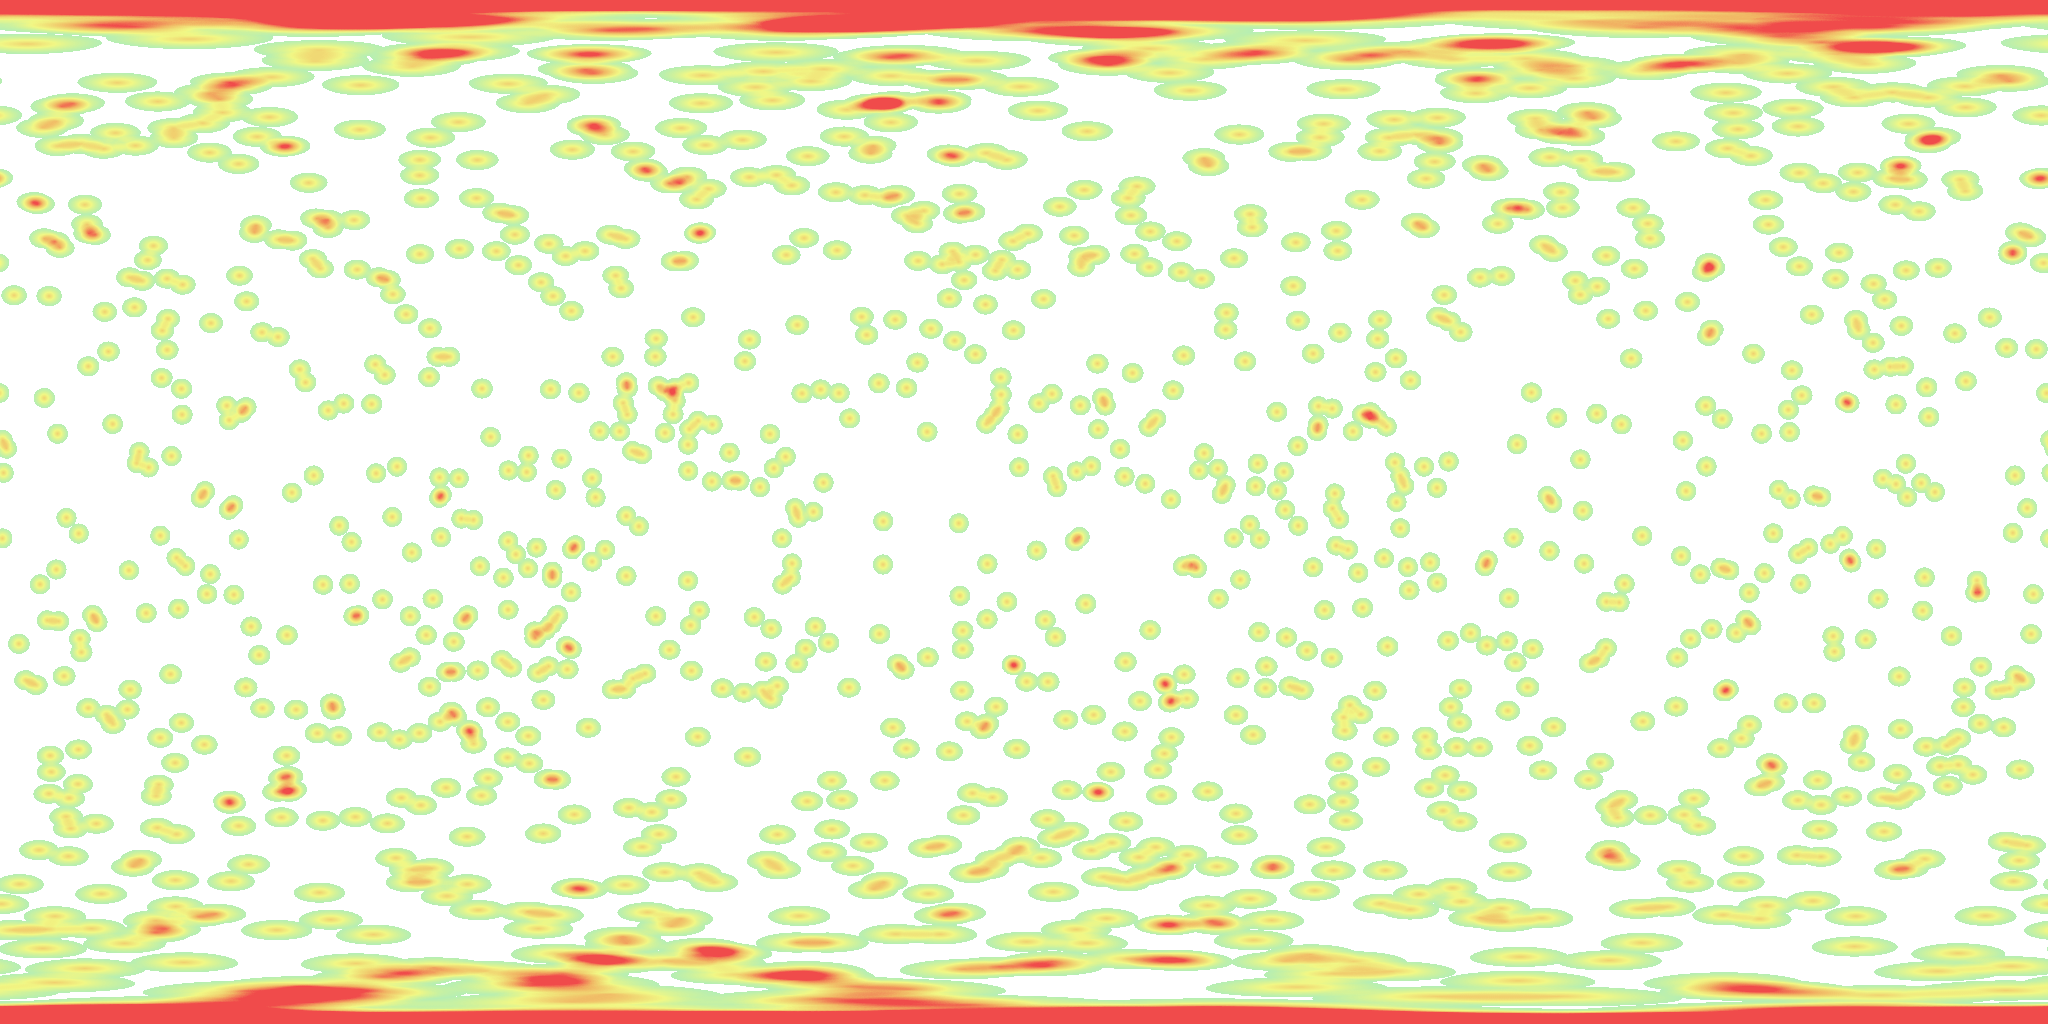
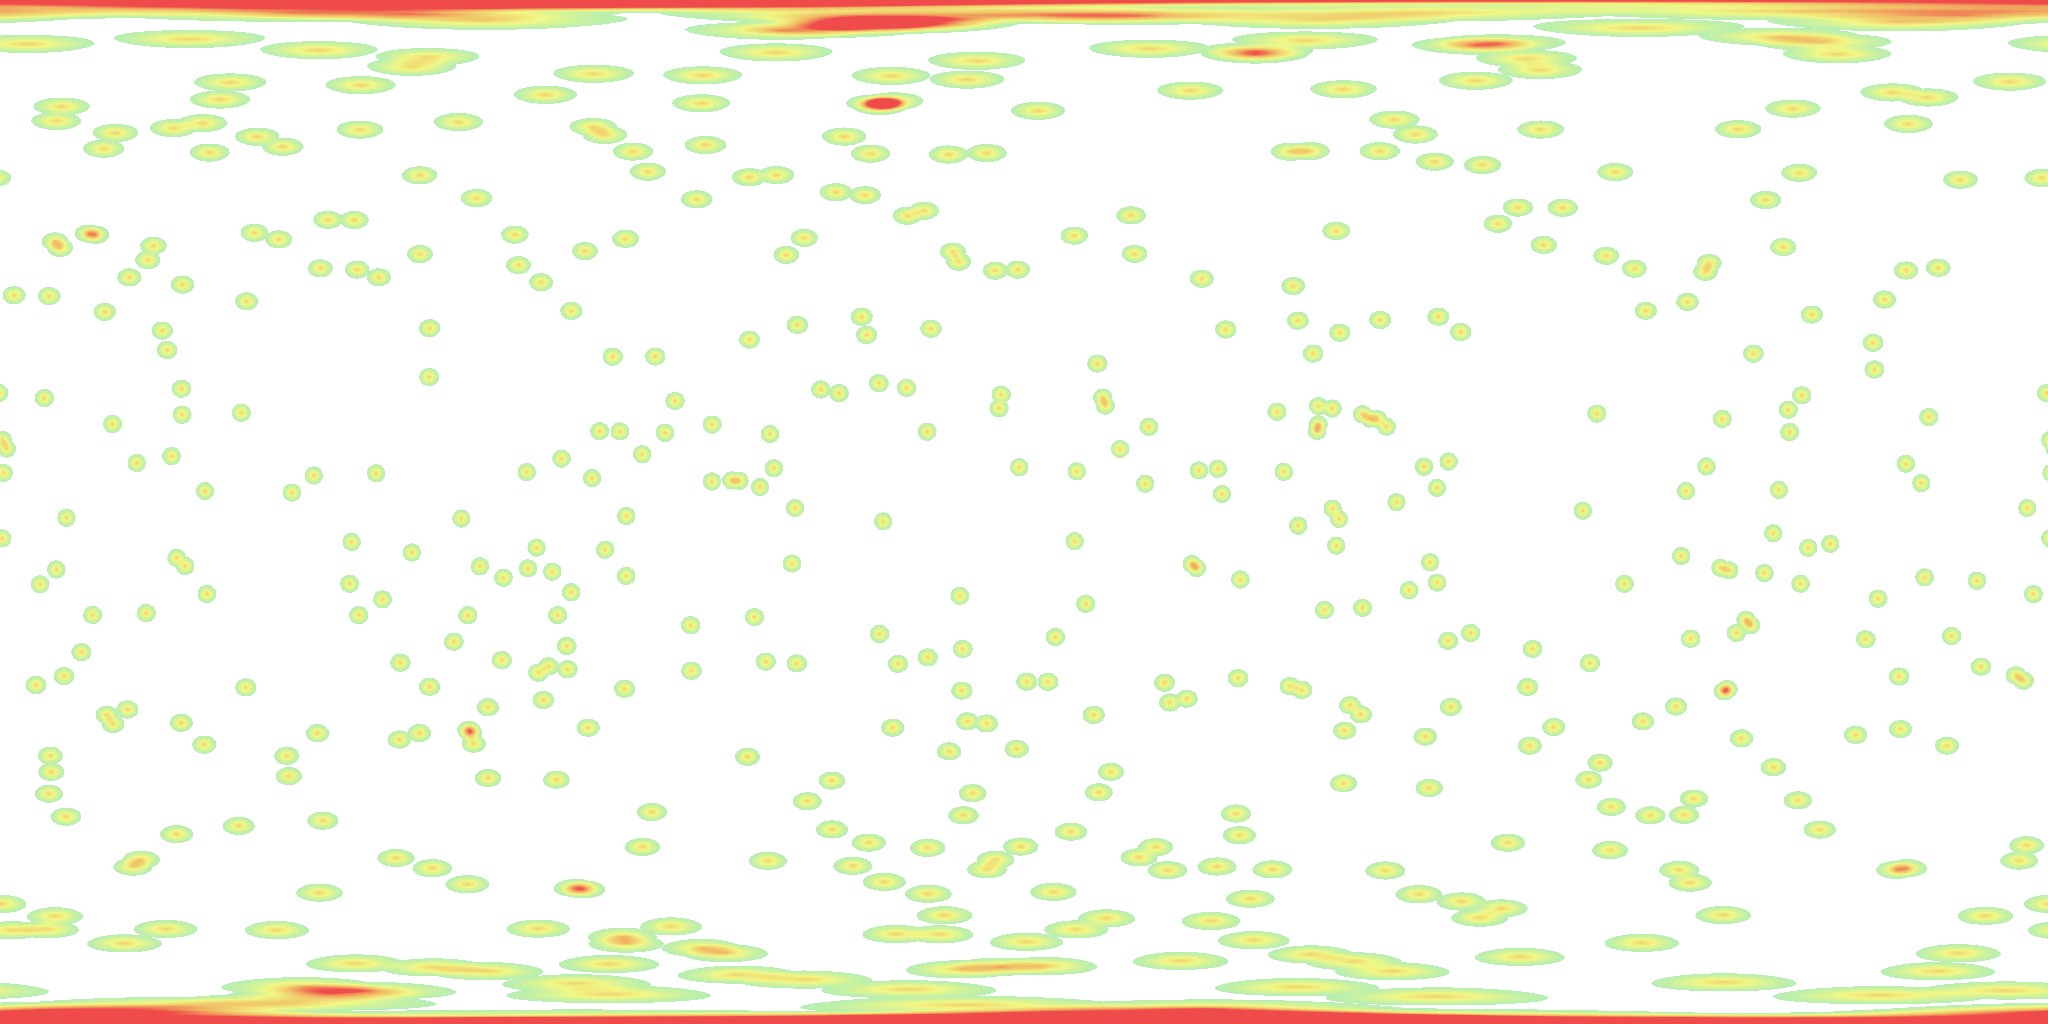
- Optimized heatmap quite a bit (~27x faster) - Went back to using trig functions rather than lookup because it's only slightly faster but less accurate

diff --git a/Packages/Coordinate-Mapper/Runtime/Scripts/Heatmap.cs b/Packages/Coordinate-Mapper/Runtime/Scripts/Heatmap.cs
@@ -17,6 +17,8 @@ public class Heatmap : MonoBehaviour
     [SerializeField] private Gradient colors;
     [SerializeField] private Renderer hmRenderer;
 
+    private IEnumerable<CoordinatePoint> points;
+
     public void GenerateHeatmapGrid(IEnumerable<CoordinatePoint> points) {
 
         /*var p = new CoordinatePoint_Basic();
@@ -27,17 +29,36 @@ public class Heatmap : MonoBehaviour
         p.location = l;
         points = new List<CoordinatePoint>() { p };*/
 
+        
+
         //TODO: Do this elsewhere?
         LookupTable.GenerateTables();
+        this.points = points;
+        Invoke("TestProfile", 2f);
+    }
 
+    void TestProfile() {
         int[,] heatmapGrid;
 
+        var sw = System.Diagnostics.Stopwatch.StartNew();
+
+        UnityEngine.Profiling.Profiler.BeginSample("HeatmapGenerate");
         heatmapGrid = Heatmap.GenerateValues((int)heatmapSize.x, (int)heatmapSize.y, kmRange, startValue, endValue, colors, points);
+        UnityEngine.Profiling.Profiler.EndSample();
+
+        sw.Stop();
+        Debug.Log("Heatmap generation time: " + sw.ElapsedMilliseconds / 1000f);
+        //sw.Reset();
 
         DrawHeatmapGrid(heatmapGrid);
 
+        //sw.Start();
+        UnityEngine.Profiling.Profiler.BeginSample("HeatmapDraw");
         Texture2D overlay = Texture2D_Extensions.DrawHeatmap(heatmapGrid, colors);
         hmRenderer.material.SetTexture("_OverlayTex", overlay);
+        UnityEngine.Profiling.Profiler.EndSample();
+        //sw.Stop();
+        //Debug.Log("Heatmap draw time: " + sw.ElapsedMilliseconds / 1000f);
     }
 
     void DrawHeatmapGrid(int[,] heatmapGrid) {
@@ -88,6 +109,8 @@ public class Heatmap : MonoBehaviour
         float cellHeightKm = kmPerLat * degPerLat;
         int cellRangeY = Mathf.RoundToInt(range / cellHeightKm);
 
+        //var sw = new System.Diagnostics.Stopwatch();
+
         foreach (CoordinatePoint p in points) {
             float texLat = 90f + p.location.latitude;
             float texLng = 180f + p.location.longitude;
@@ -95,33 +118,67 @@ public class Heatmap : MonoBehaviour
             float latRatio = texLat / 180f;
             float lngRatio = texLng / 360f;
 
-            float xStart = Mathf.Round(lngRatio * w);
-            float yStart = Mathf.Round(latRatio * h);
+            float xCenter = Mathf.Round(lngRatio * w);
+            float yCenter = Mathf.Round(latRatio * h);
 
-            xStart = Mathf.Clamp(xStart, 0f, w - 1);
-            yStart = Mathf.Clamp(yStart, 0f, h - 1);
+            xCenter = (int)Mathf.Clamp(xCenter, 0f, w - 1);
+            yCenter = (int)Mathf.Clamp(yCenter, 0f, h - 1);
 
-            for (int x = 0; x < w; x++) {
-                if (x < 0 || x >= w) { continue; }
-                for (int y = (int)yStart - cellRangeY; y <= yStart + cellRangeY; y++) {
+            int cellRangeX = w;
+            float yLat = (float)yCenter / (float)h * 180f - 90f;
+
+            int gridX = 1;
+            var movingEast = xCenter <= w / 2; //If in western hemisphere - move east so we have more space to check range
+            while(true) {
+                var currX = xCenter + (movingEast ? gridX : -gridX);
+                if(currX > w || currX < 0) { break; }
+
+                float lng = currX / (float)w * 360f - 180f;
+                float d = p.location.kmBetweenLocations(yLat, lng);
+
+                if(d > range) {
+                    cellRangeX = gridX - 1;
+                    break;
+                }
+
+                gridX += 1;
+            }
+
+            //for (int x = 0; x < w; x++) {
+            for (int x = (int)xCenter - cellRangeX; x <= xCenter + cellRangeX; x++) {
+                var currX = x;
+                if (x < 0 || x >= w) {
+                    if(cellRangeX < w / 2) { currX = nfmod(x, w); }
+                    else { continue; }
+                }
+
+                for (int y = (int)yCenter - cellRangeY; y <= yCenter + cellRangeY; y++) {
                     if (y < 0 || y >= h) { continue; }
 
-                    float lng = (float)x / (float)w * 360f - 180f;
+                    float lng = (float)currX / (float)w * 360f - 180f;
                     float lat = (float)y / (float)h * 180f - 90f;
+                    //sw.Start();
                     float d = p.location.kmBetweenLocations(lat, lng);
+                    //sw.Stop();
 
                     if (d < range) {
                         float dRatio = d / (float)range;
                         int fallOffRange = startValue - endValue;
                         int fallOffVal = (int)(startValue - (fallOffRange * dRatio));
-                        heatmapGrid[x, y] += fallOffVal;
+                        heatmapGrid[currX, y] += fallOffVal;
                     }
                 }
             }
         }
-        
+
+        //Debug.Log("Heatmap trig time: " + sw.ElapsedMilliseconds / 1000f + " | ACos time: " + Location.sw.ElapsedMilliseconds / 1000f + " | Sin Lookup: " + LookupTable.sinSw.ElapsedMilliseconds / 1000f + " | Cos Lookup: " + LookupTable.cosSw.ElapsedMilliseconds / 1000f
+        //     + " | Abs time: " + LookupTable.absSw.ElapsedMilliseconds / 1000f);
 
         return heatmapGrid;
+    }
+
+    public static int nfmod(int a, int b) {
+        return a - b * Mathf.FloorToInt((float)a / (float)b);
     }
 
     public static int[,] GenerateValuesOld(int w, int h, int range, int startValue, int endValue, Gradient colors, IEnumerable<CoordinatePoint> points) {

diff --git a/Packages/Coordinate-Mapper/Runtime/Scripts/LookupTable.cs b/Packages/Coordinate-Mapper/Runtime/Scripts/LookupTable.cs
@@ -3,10 +3,17 @@ using System.Collections.Generic;
 using UnityEngine;
 
 public static class LookupTable {
-    public static float[,] sinTable = new float[361, 10000];
-    public static float[,] cosTable = new float[361, 10000];
+    //public static float[,] sinTable = new float[361, 10000];
+    //public static float[,] cosTable = new float[361, 10000];
 
-    public static void GenerateTables() {
+    public static float[] sinTable = new float[361];
+    public static float[] cosTable = new float[361];
+
+    //public static System.Diagnostics.Stopwatch sinSw = new System.Diagnostics.Stopwatch();
+    //public static System.Diagnostics.Stopwatch cosSw = new System.Diagnostics.Stopwatch();
+    //public static System.Diagnostics.Stopwatch absSw = new System.Diagnostics.Stopwatch();
+
+    /*public static void GenerateTables() {
         var onesCount = sinTable.GetLength(0);
         var decCount = sinTable.GetLength(1);
 
@@ -19,19 +26,34 @@ public static class LookupTable {
                 cosTable[i, j] = Mathf.Cos(radians);
             }
         }
+    }*/
+
+    public static void GenerateTables() {
+        var count = sinTable.Length;
+
+        for (int i = 0; i < count; i++) {
+            float radians = (float)i * Mathf.Deg2Rad;
+
+            sinTable[i] = Mathf.Sin(radians);
+            cosTable[i] = Mathf.Cos(radians);
+        }
     }
 
     public static float LookupSinValue(float degrees) {
-        var numParts = BreakOutParts(Mathf.Abs(degrees));
-        float sinVal = sinTable[numParts.onesPlace, numParts.decimals];
+        var abs = Abs((int)degrees);
+        //sinSw.Start();
+        float sinVal = sinTable[abs];
+        //sinSw.Stop();
 
         //sin(x) == -sin(-x)
         return degrees < 0 ? -sinVal : sinVal;
     }
 
     public static float LookupCosValue(float degrees) {
-        var numParts = BreakOutParts(Mathf.Abs(degrees));
-        float cosVal = cosTable[numParts.onesPlace, numParts.decimals];
+        var abs = Abs((int)degrees);
+        //cosSw.Start();
+        float cosVal = cosTable[abs];
+        //cosSw.Stop();
 
         //cos(x) == cos(-x)
         return cosVal;
@@ -46,5 +68,12 @@ public static class LookupTable {
         if (dec >= sinTable.GetLength(1)) { dec -= 1; } //Adjust for .995+ decimal rounding
 
         return (ones, dec);
+    }
+
+    private static int Abs(int degrees) {
+        //absSw.Start();
+        var abs = degrees < 0 ? (degrees - degrees * 2) : degrees;
+        //absSw.Stop();
+        return abs;
     }
 }

diff --git a/Packages/Coordinate-Mapper/Runtime/Scripts/Coordinates/Location.cs b/Packages/Coordinate-Mapper/Runtime/Scripts/Coordinates/Location.cs
@@ -10,6 +10,8 @@ namespace CoordinateMapper.Coordinates {
         public float latitude;
         public float longitude;
 
+        //public static System.Diagnostics.Stopwatch sw = new System.Diagnostics.Stopwatch();
+
         public Location(float lat, float lng) {
             latitude = lat;
             longitude = lng;
@@ -43,13 +45,18 @@ namespace CoordinateMapper.Coordinates {
             float d = (R * c) / 1000f; //kilometers
             return d;*/
 
+            UnityEngine.Profiling.Profiler.BeginSample("HeatmapTrig");
+
             //Spherical Law of Cosines - in my testing about 30% faster than the Haversine formula
             float R = 6371000f; //meters
-            /*float φ1 = lat1 * Mathf.Deg2Rad;
+            float φ1 = lat1 * Mathf.Deg2Rad;
             float φ2 = lat2 * Mathf.Deg2Rad;
             float Δλ = (lon2 - lon1) * Mathf.Deg2Rad;
             float d = (Mathf.Acos(Mathf.Sin(φ1) * Mathf.Sin(φ2) + Mathf.Cos(φ1) * Mathf.Cos(φ2) * Mathf.Cos(Δλ)) * R) / 1000f;
-            return d;*/
+            UnityEngine.Profiling.Profiler.EndSample();
+            return d;
+
+            /*UnityEngine.Profiling.Profiler.BeginSample("HeatmapTrig");
 
             float lat1Sin = LookupTable.LookupSinValue(lat1);
             float lat2Sin = LookupTable.LookupSinValue(lat2);
@@ -59,8 +66,11 @@ namespace CoordinateMapper.Coordinates {
 
             float lonDeltaCos = LookupTable.LookupCosValue(lon2 - lon1);
 
+            //sw.Start();
             float d = (Mathf.Acos(lat1Sin * lat2Sin + lat1Cos * lat2Cos * lonDeltaCos) * R) / 1000f;
-            return d;
+            UnityEngine.Profiling.Profiler.EndSample();
+            //sw.Stop();
+            return d;*/
 
             //Equirectangular approximation - VERY inaccurate, not sure if I have something off in the formula...
             /*float x = Δλ * Mathf.Cos((φ1 + φ2) / 2f);
